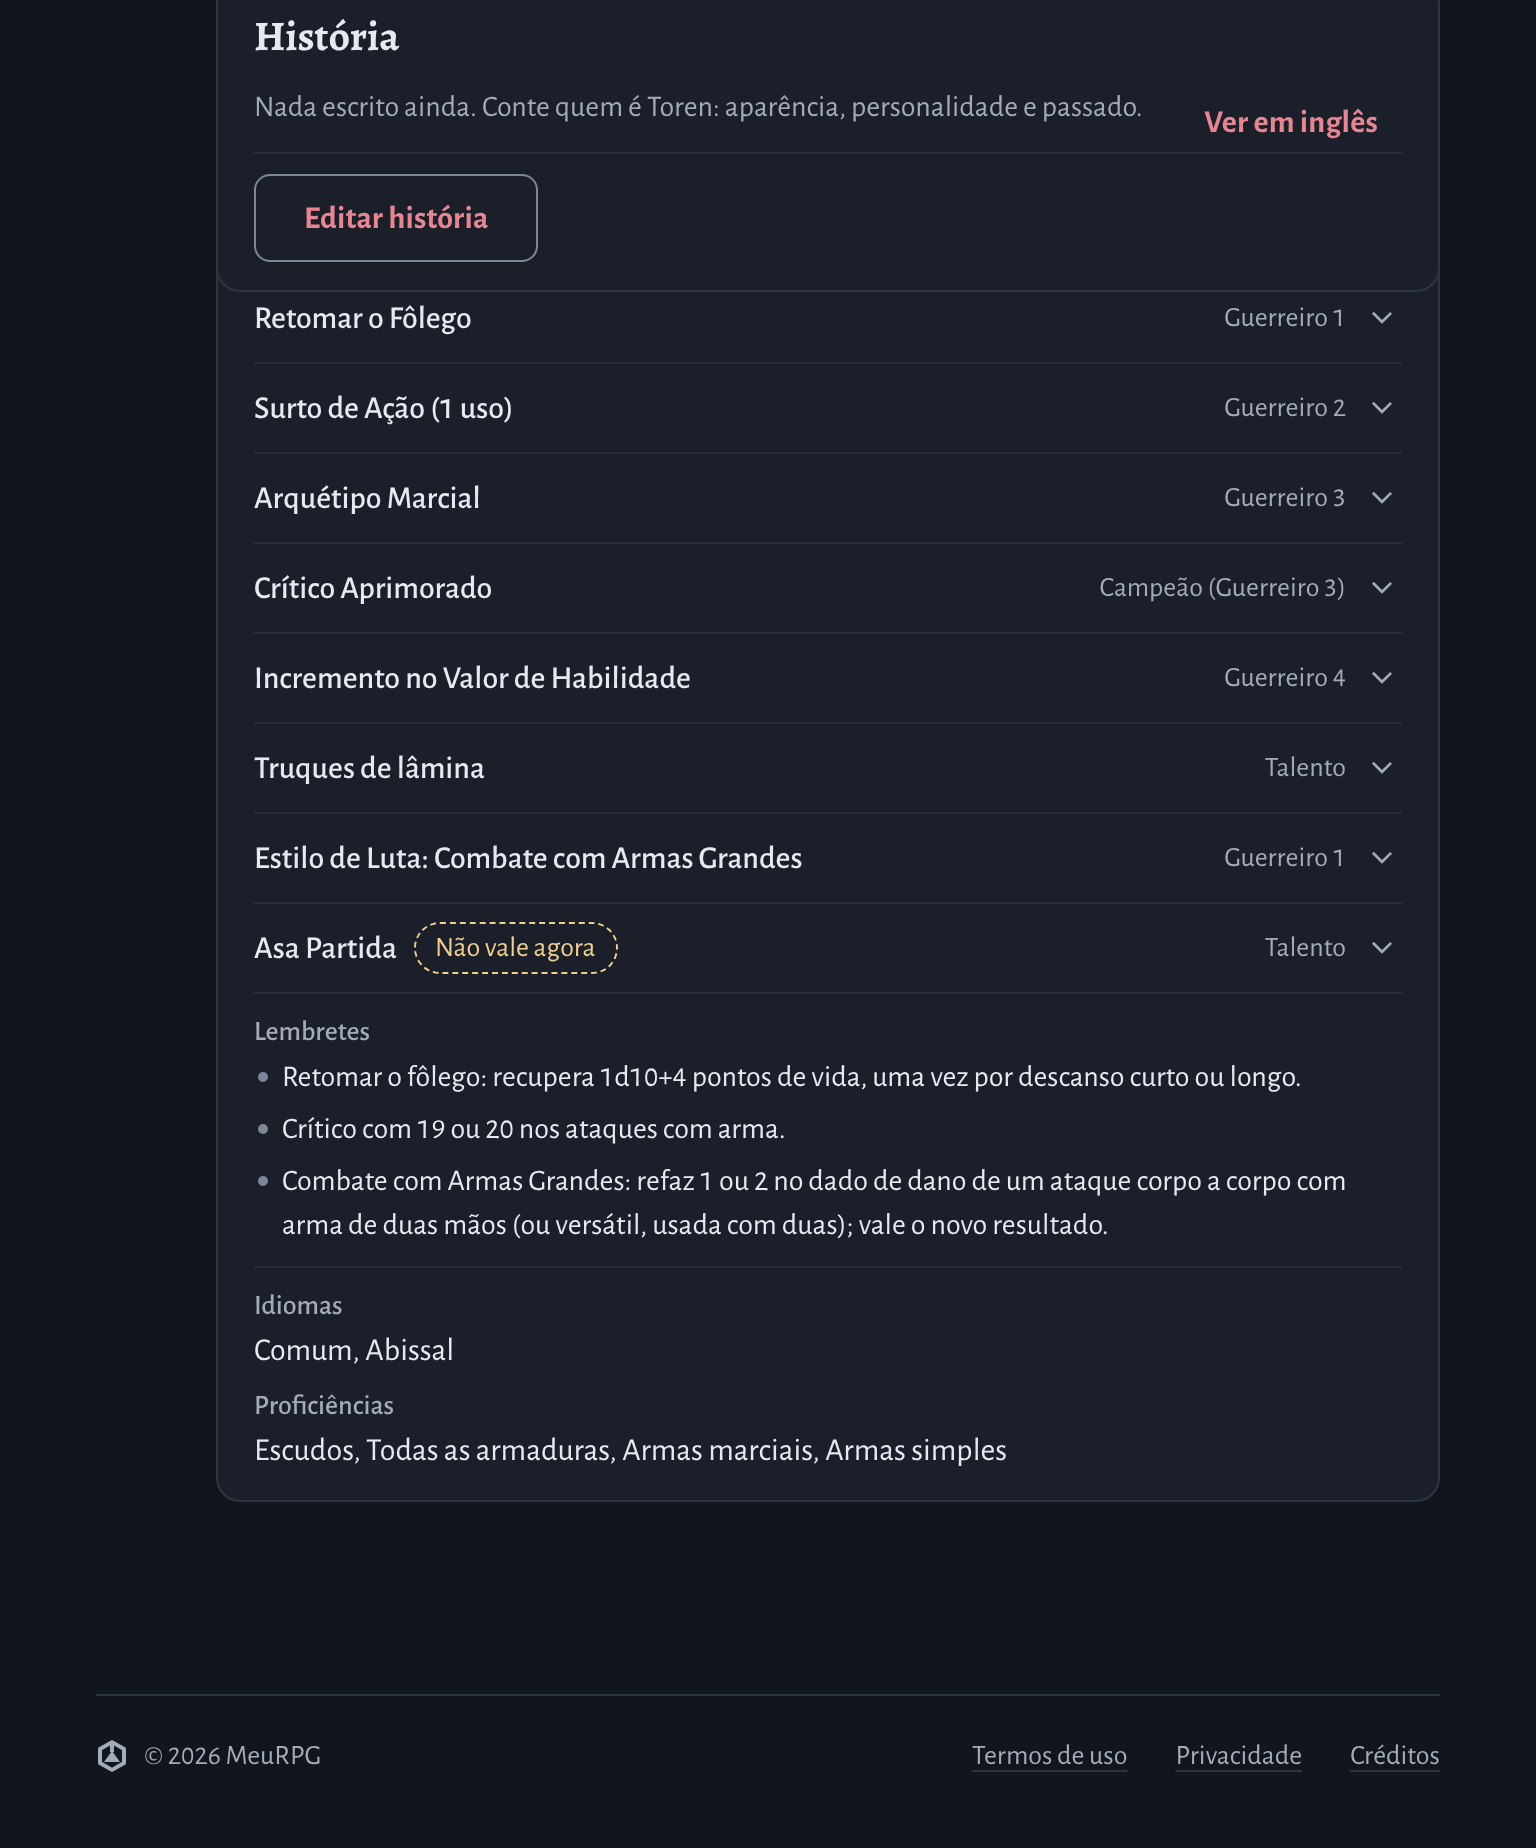
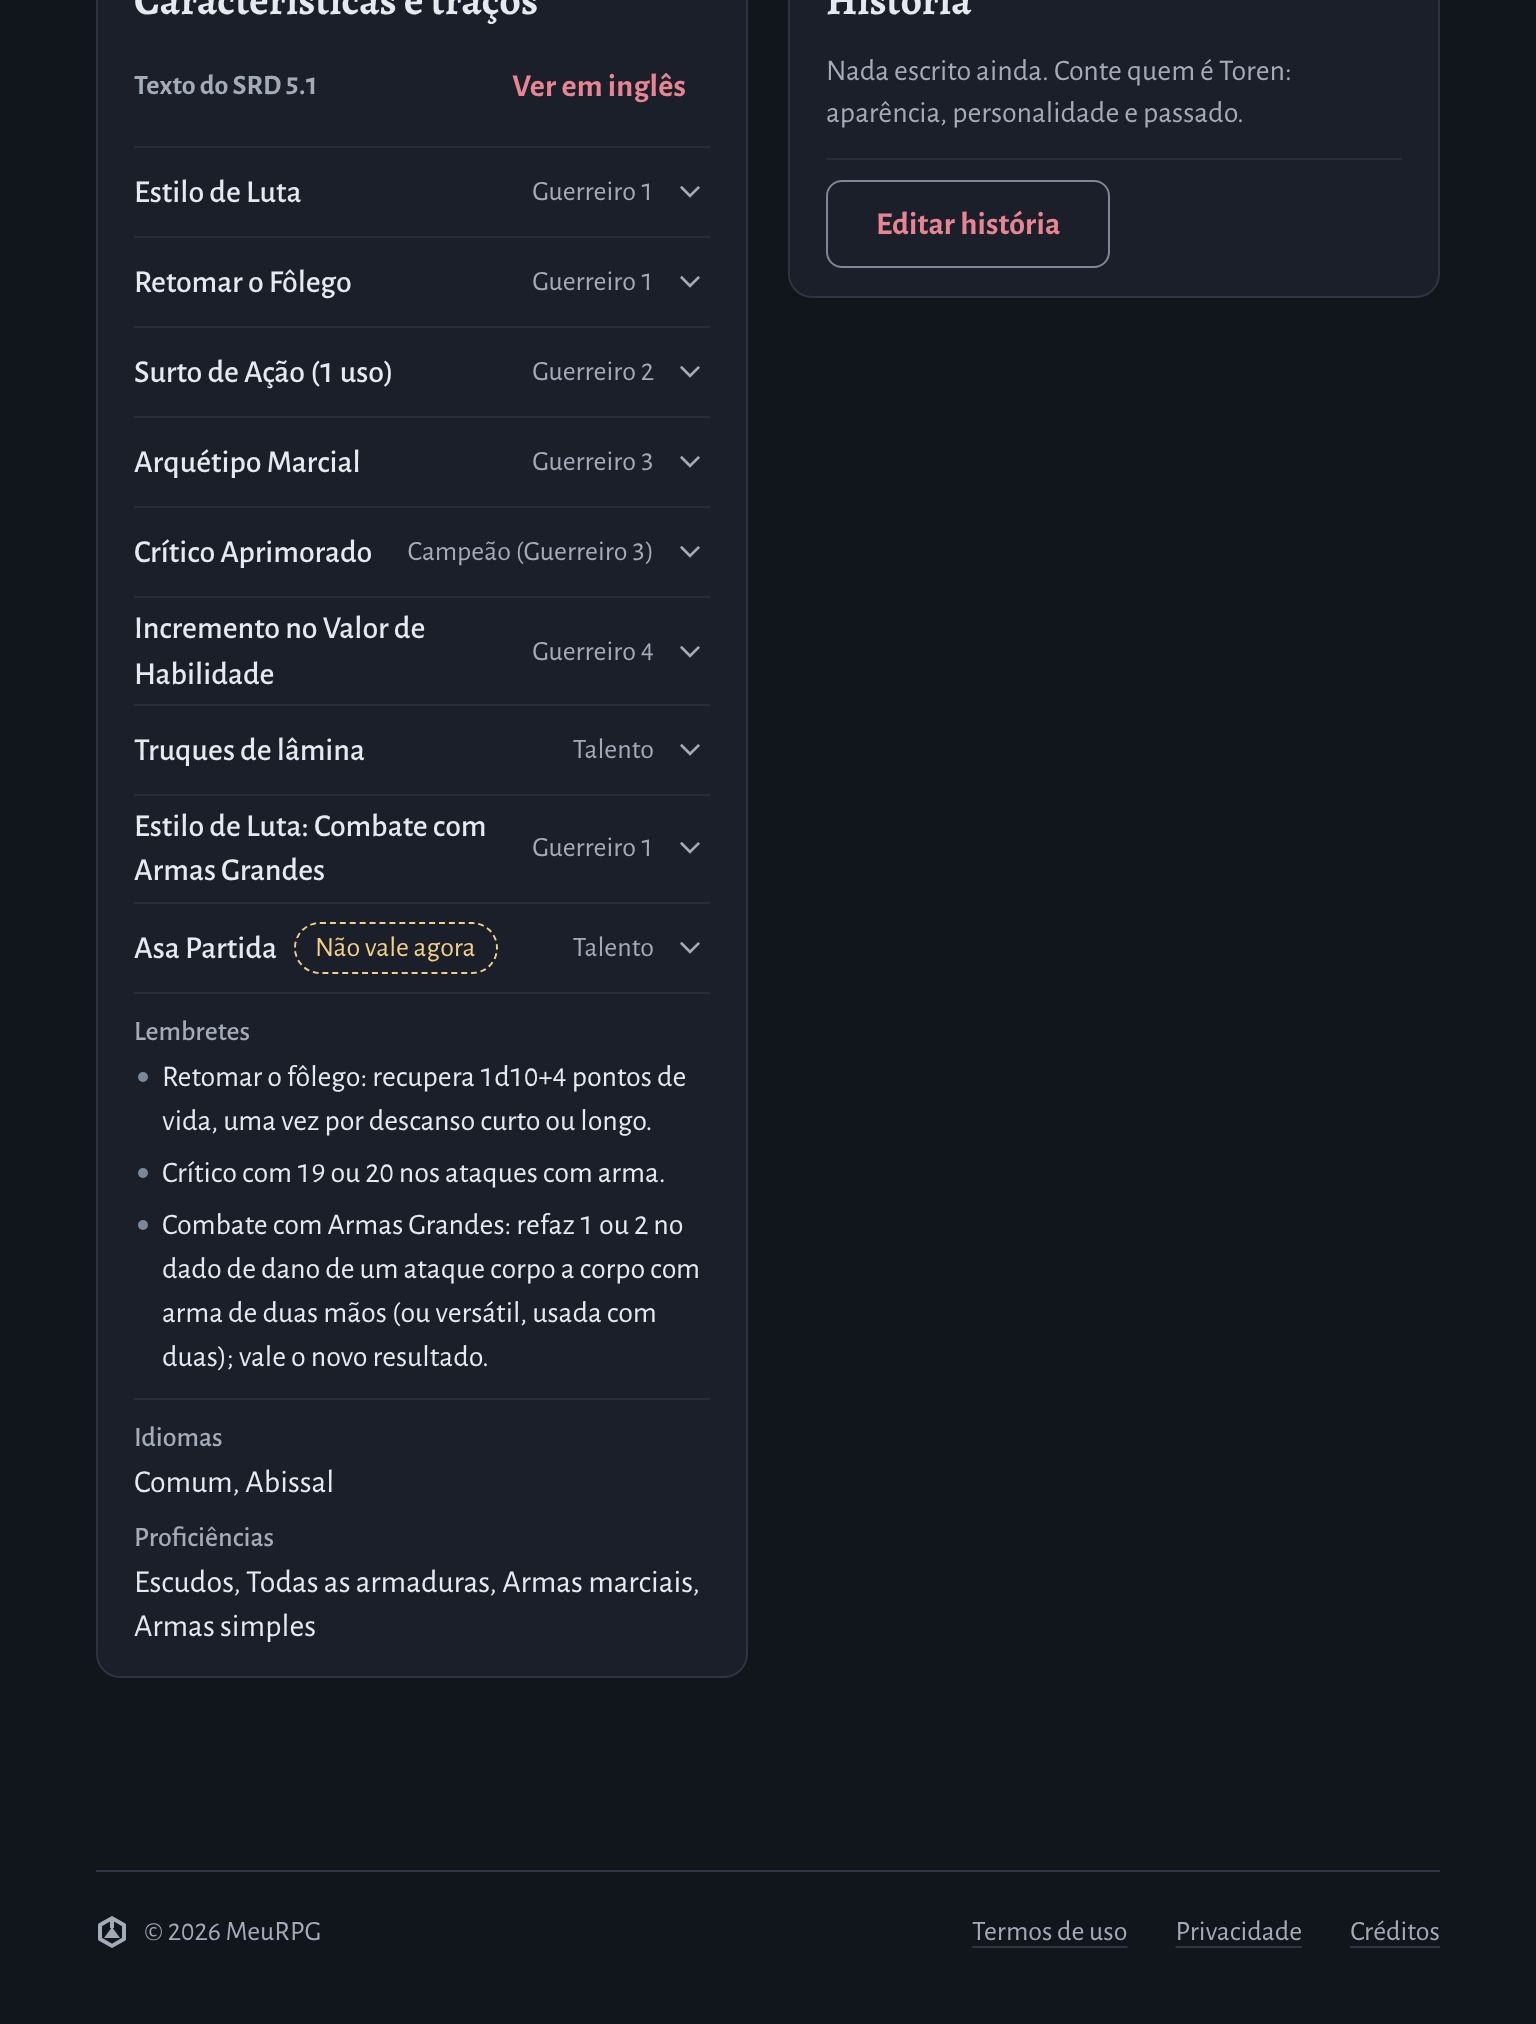
580-05: reshoot the edited state and the master's 768 shots after the fixes
Claude-Session: https://claude.ai/code/session_015TiZRk4BLzK6ZGERJDxqPa

diff --git a/580-s1-s2-web-2-pre-requisito-perdido/README.md b/580-s1-s2-web-2-pre-requisito-perdido/README.md
@@ -12,16 +12,16 @@ Each 580-05 state has two shots at each width and theme: `-pendencias` (the "Pen
 | `580-05-opcao-oculta-dono-*` | 580-05, 580-09 card 5 | The same for the lost option: "Asa Partida pede uma condição que a mesa não mostra: a opção só vale de novo quando Toren cumprir." |
 | `580-05-talento-oculto-mestre-*` | 580-05, 580-09 card 5 | The master's view of the hidden feat condition, named: "Postura Firme pede Ordem Esquecida 3, e Toren não tem nível de Ordem Esquecida: o talento só vale de novo quando Toren cumprir." |
 | `580-05-opcao-oculta-mestre-*` | 580-05, 580-09 card 5 | The master's view of the hidden option condition, named. |
-| `580-05-editado-dono-{390,768,1280}-{claro,escuro}` | 580-05 | The master edited the feat after the sheet was saved (added Guerreiro 7): the line shows inside the changed-content notice (`app-changed-content`) for the owner. The notice is titled "O conteúdo mudou." (see note 1), and the same sentence is also in "Pendências de regra" right below it (note 2). |
+| `580-05-editado-dono-{390,768,1280}-{claro,escuro}` | 580-05 | The master edited the feat after the sheet was saved (added Guerreiro 7): the line shows inside the changed-content notice for the owner, titled "O talento mudou.", and is not repeated in "Pendências de regra". Reshot after the fix (332ba43). |
 | `580-16-4-armas-da-mesa-lista-{1280-claro,1280-escuro,390-claro}` | 580-16 state 4 | Character editor, Equipamento step, the "Armas" list opened by the player with "Machado de Lenhador" (table weapon) checked. See note 3: the app lists "Do livro" first and "Da mesa" after it, not the board's "Da mesa" above "Do SRD". |
 
 ## What is not here
 
 - 580-16 state 8 ("A arma mudou." after the master puts "Duas mãos" on the Machado de Lenhador with a shield on the sheet): the app does not do it. A weapon edit raises no sheet issue, so no changed-content notice is made for a weapon (see `backend/internal/characters/weaponedit_580_test.go`, which says so). Nothing was built.
 
-## Notes (differences from the boards, nothing changed in the app)
+## Notes (differences from the boards)
 
-1. A feat the master edits shows "O conteúdo mudou." / "o conteúdo", the fallback of `changed-content-format.ts`: its `KINDS` has class, subclass, race, subrace, background, spell and weapon, but no feat. The board shows "A subclasse mudou." for a subclass option; that title exists, but the shot here is of a feat because it is the setup the e2e helpers can make.
-2. In the changed-content state the lost-prerequisite sentence stays in "Pendências de regra" too (only the `table_content_changed` meta issue is filtered out of that list, `character-sheet.ts` `ownIssues`). The board shows it only in the notice.
+1. Fixed on the branch (332ba43): a feat's change is titled "O talento mudou." (an option's "A opção mudou."). The board shows "A subclasse mudou." for a subclass option; the shots use a feat.
+2. Fixed on the branch (332ba43): a sentence the changed-content notice tells is no longer repeated in "Pendências de regra".
 3. The weapons list in the character editor is `Do livro` (SRD) then `Da mesa`, and the mat-select opens with the list scrolled to the checked option, so "Do livro" is above the fold. Board 580-16 state 4 draws "Da mesa" on top, then "Do SRD", with a table-weapon tag per row.
-4. The master's sheet at 768: the "História" card is drawn over the top of "Características e traços" (heading and the first rows hidden), which is why the `580-05-*-mestre-768-*-linha` shots show the tag under it. It is the master's layout (Notas do mestre card in the left column), not part of this change; the owner's 768 sheet is fine.
+4. Fixed on the branch: at 768 to 1199 the master's "História" card was drawn over "Características e traços" (a bug already on main). The `-mestre-768-` shots were retaken with the two side by side.
